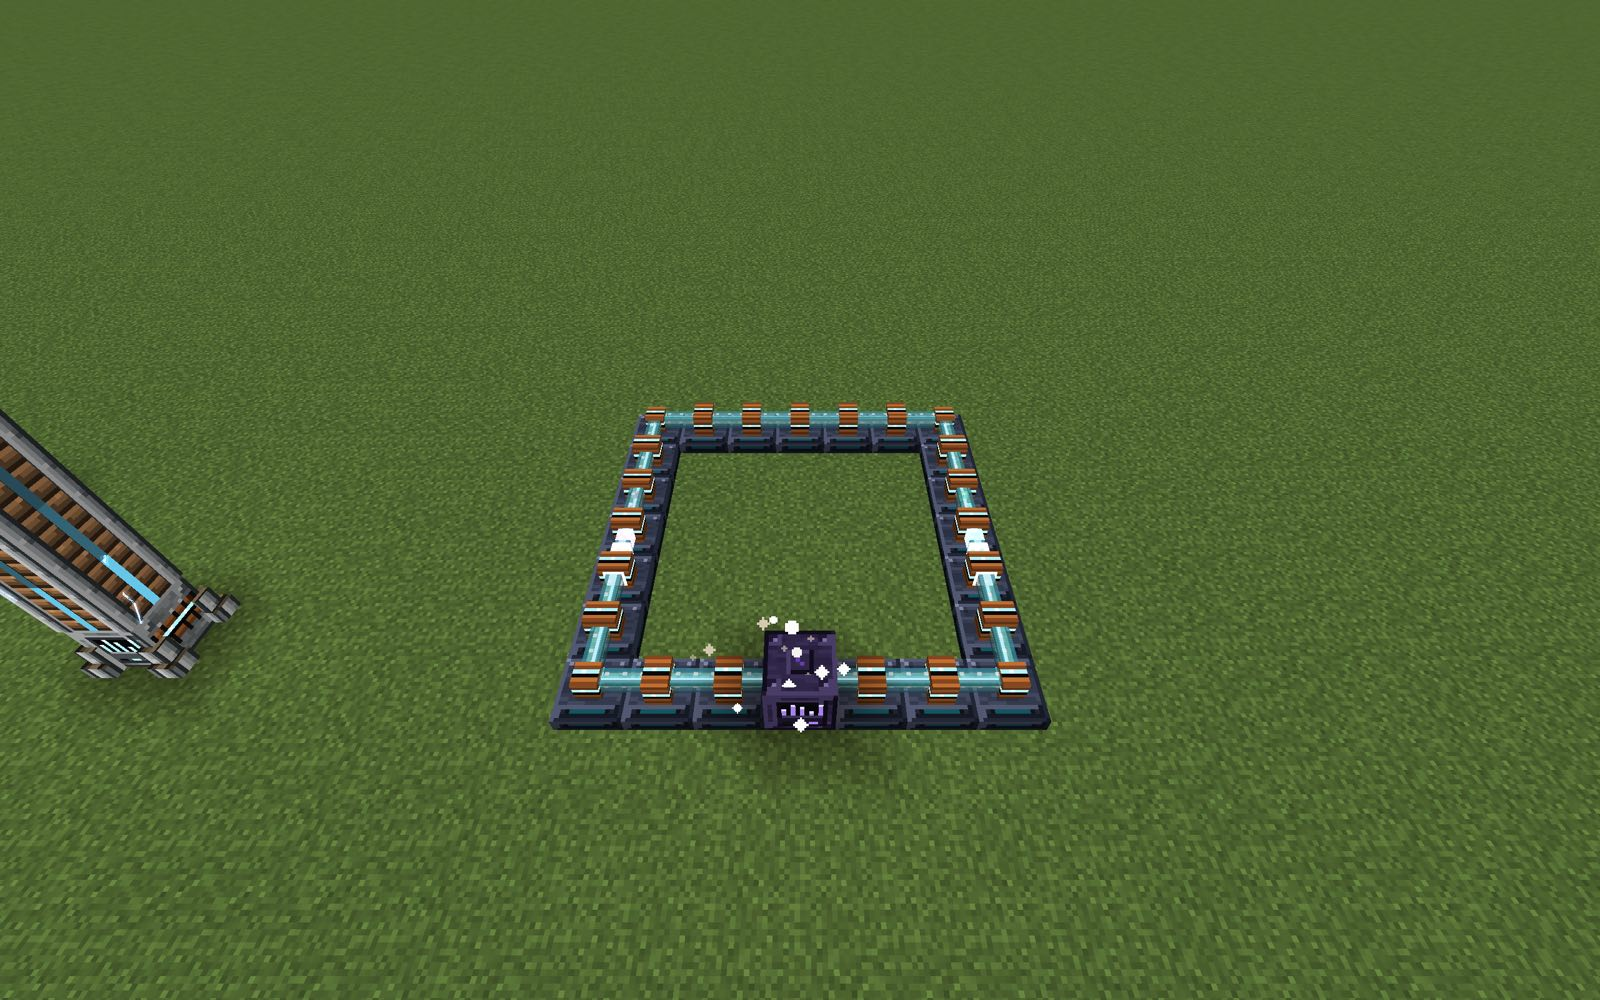
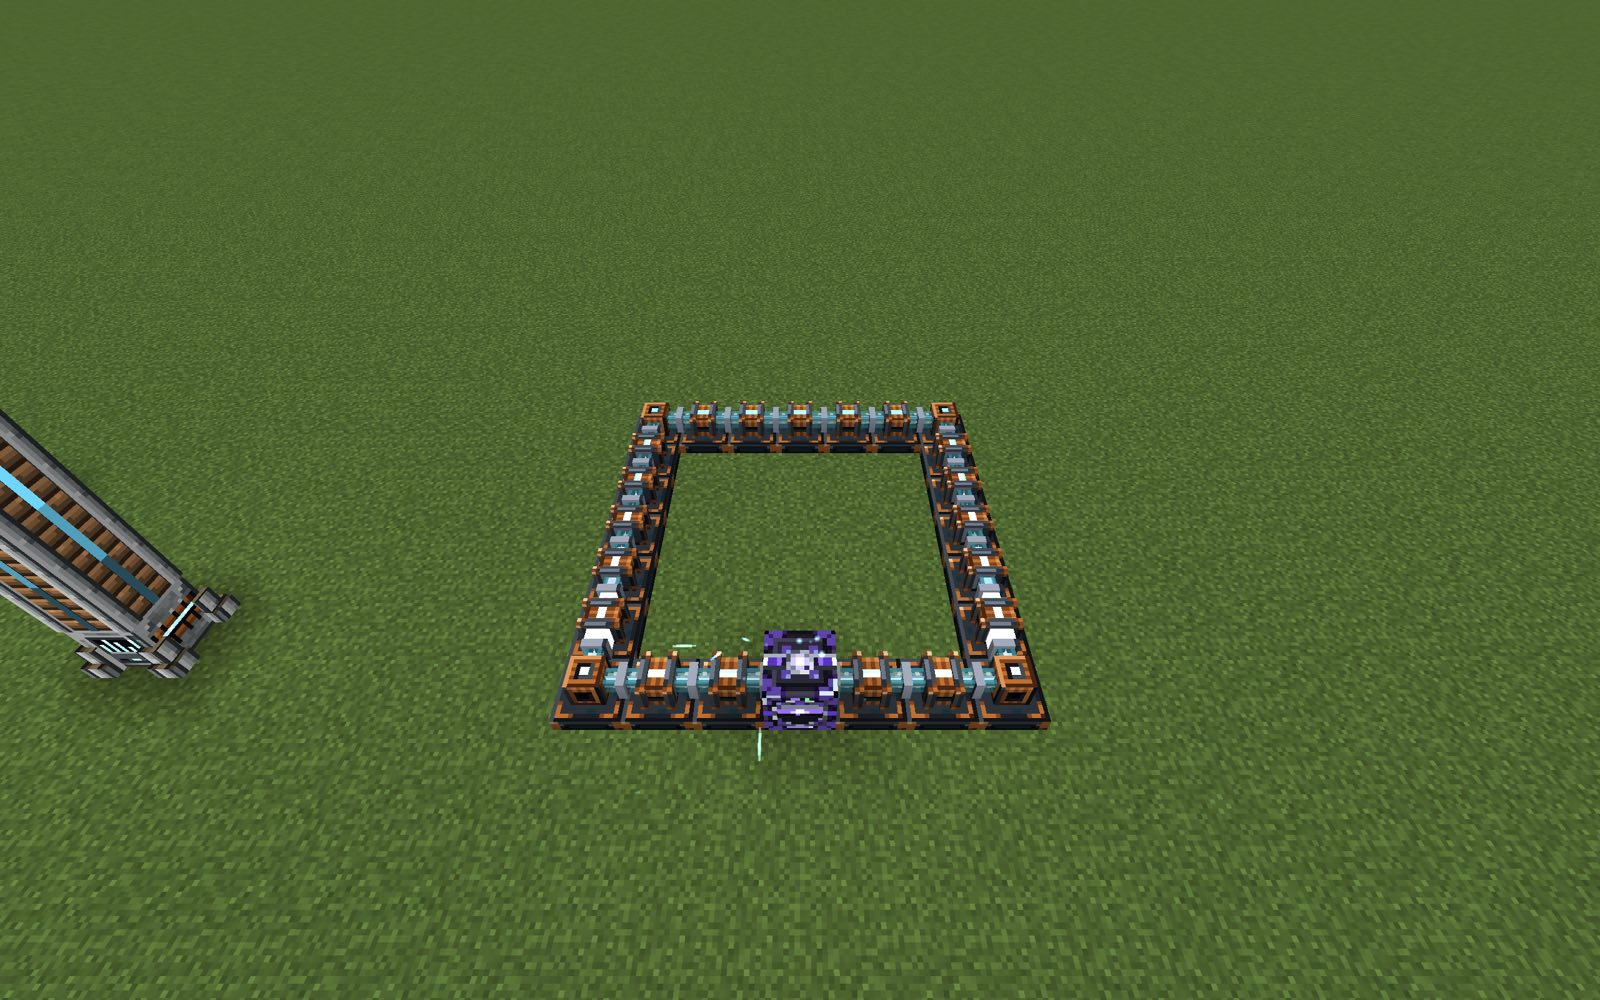
Rebuild the wiki and showcase shots for the multiblock, bench and warp pad redesign

Changed region(s): [[0.3438, 0.403, 0.6562, 0.744], [0.0, 0.558, 0.0938, 0.62], [0.0, 0.465, 0.0625, 0.558]]

diff --git a/src/main/java/com/arno/robotica/codex/client/dev/Showcase.java b/src/main/java/com/arno/robotica/codex/client/dev/Showcase.java
@@ -1612,6 +1612,16 @@ public final class Showcase {
             if (mc().player != null && mc().screen != null) mc().player.closeContainer();
         });
 
+        // Tinker's Bench in the world, from the front corner.
+        if (wants("33_tinkers_bench")) {
+            step(10, () -> server(sp -> setFacing(sp.serverLevel(), BENCH, block("tinkers_bench"), Direction.SOUTH)));
+            camera(BENCH.getX() + 1.9, Y + 0.3, BENCH.getZ() + 2.1, 138, 30);
+            hud(false);
+            step(20, () -> {});
+            shot("33_tinkers_bench");
+            hud(true);
+        }
+
         // Tinker's Bench with a Null Drill full of modules, a few more modules in the inventory.
         if (wants("gui_97_tinkers_bench")) step(10, () -> server(sp -> {
             ServerLevel level = sp.serverLevel();
